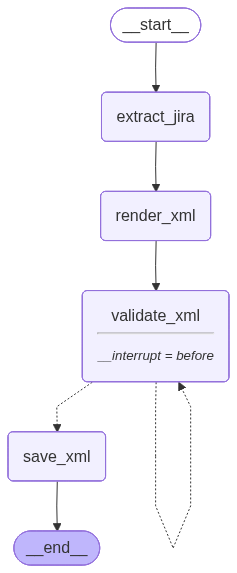
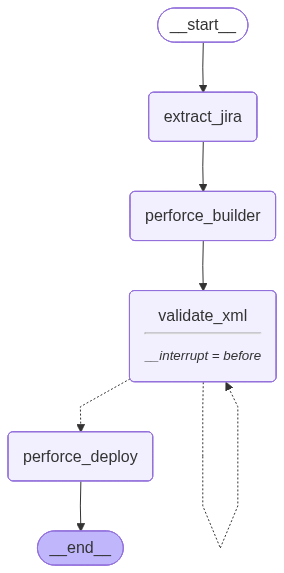
Updated the Agent of Query table Picture

diff --git a/LogFormat/xmlGenerator.py b/LogFormat/xmlGenerator.py
@@ -194,6 +194,8 @@ class UniversalXMLGenerationEngine:
                 self._build_bitmask(sf_node, item)
                 self._build_sub_chars(sf_node, item)
 
+                if "status_chars" in item:
+                    self.process_status_chars(sf_node, item["status_chars"])
                 if "sub_fields" in item:
                     self.process_sub_fields(sf_node, item["sub_fields"])
                 if "named_sub_fields" in item: